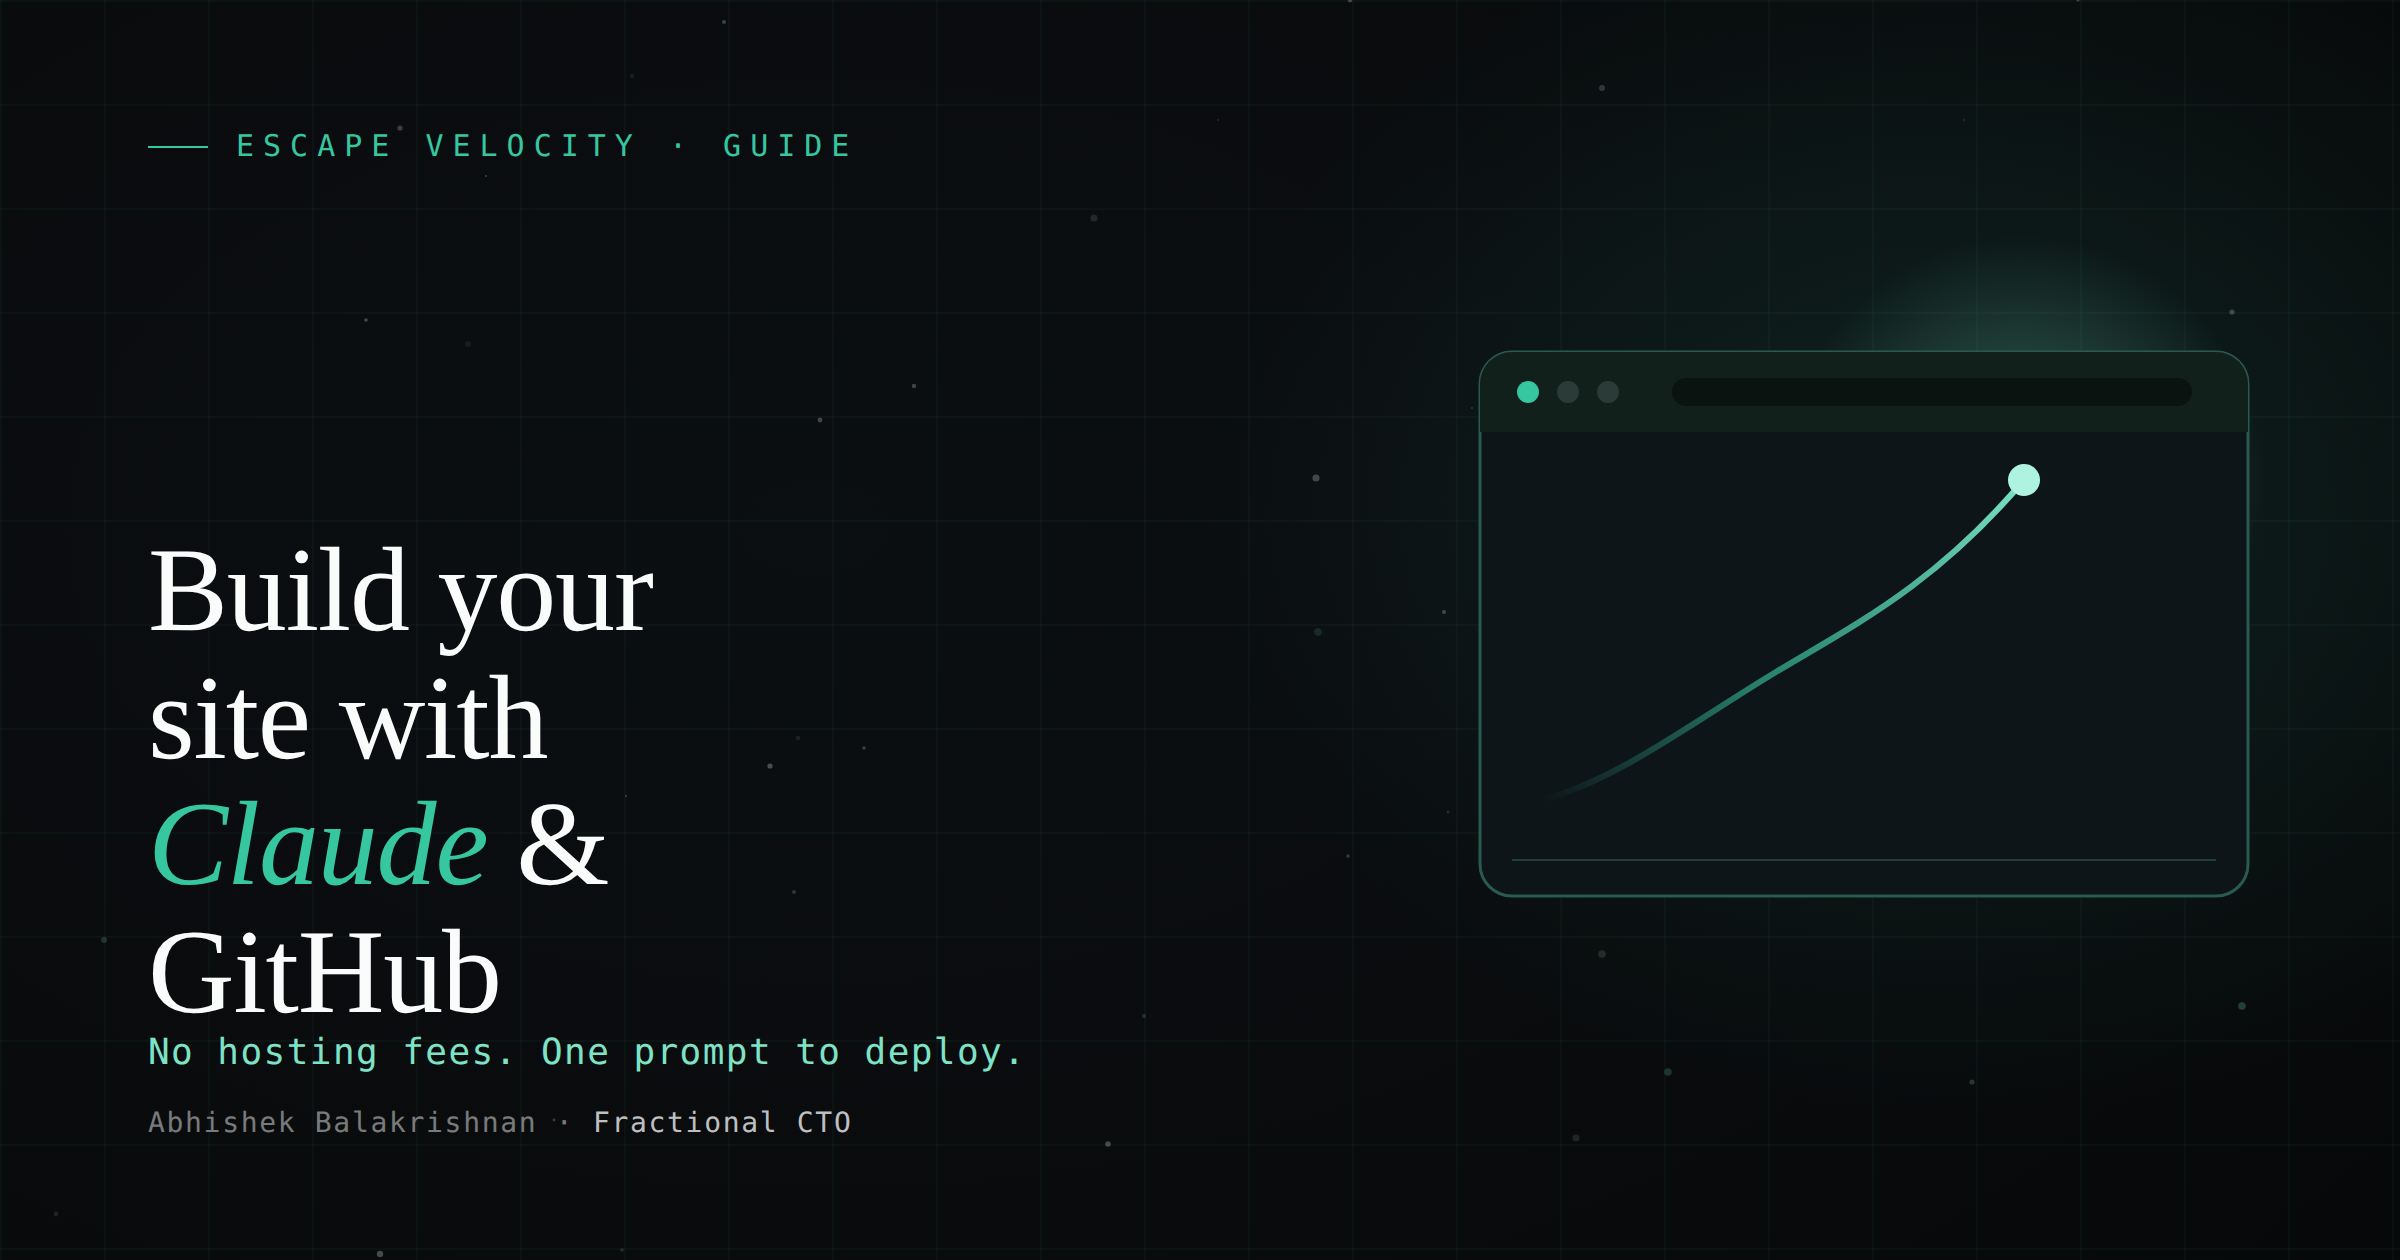
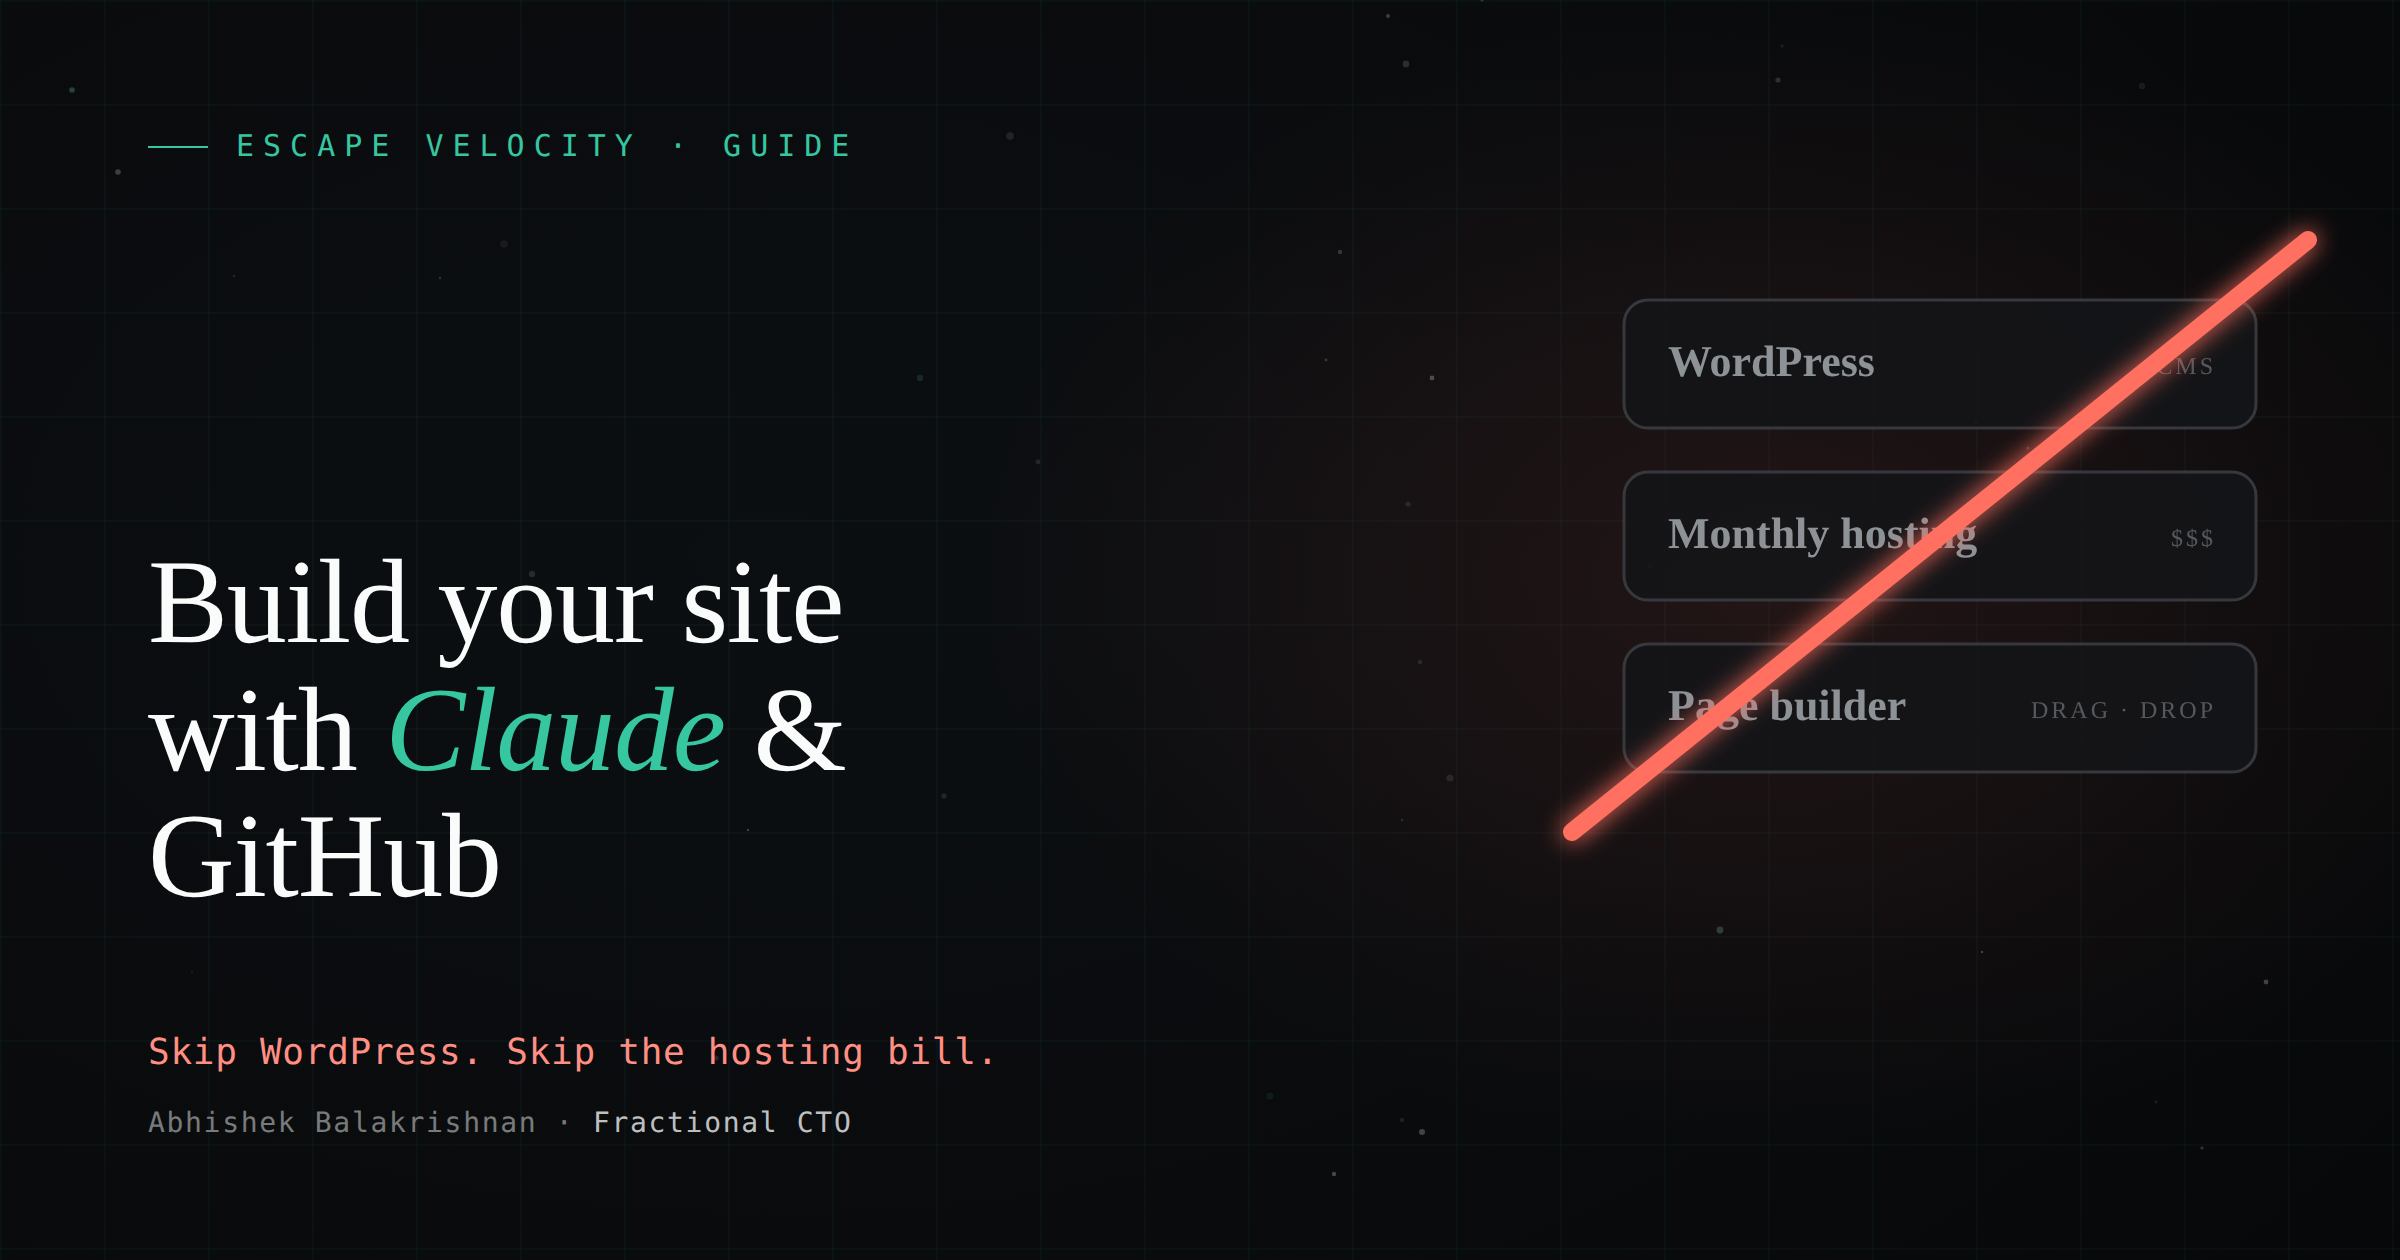
Update guide cover to cross out traditional CMS, add old-vs-new inline image

diff --git a/preview/build-your-website-with-claude-and-github.md b/preview/build-your-website-with-claude-and-github.md
@@ -19,6 +19,8 @@ There is a better path now. With Claude and GitHub Pages, the only thing you act
 
 Here is how it works, and what you need to do it yourself.
 
+![The old way of building a site versus the new way with Claude and GitHub](/assets/images/guide-old-vs-new.png)
+
 ## The old stack, and what it costs
 
 Before I get to the new workflow, it helps to see what you are leaving behind.
